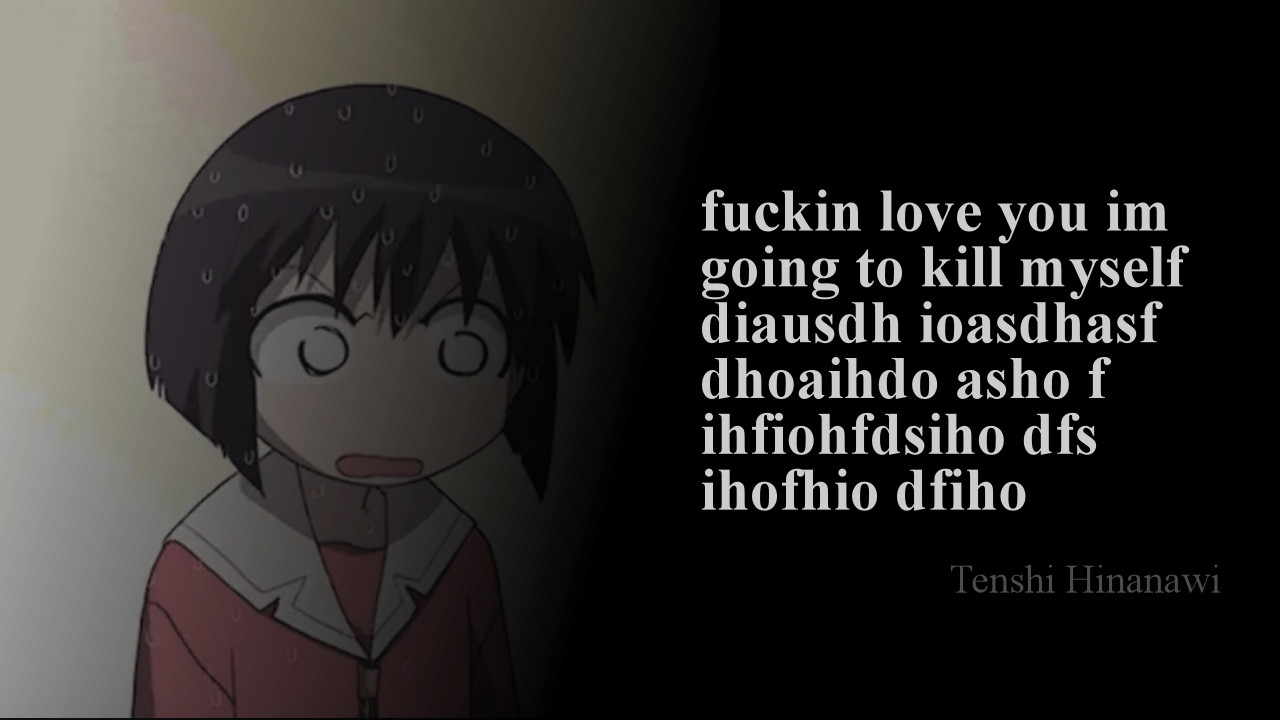
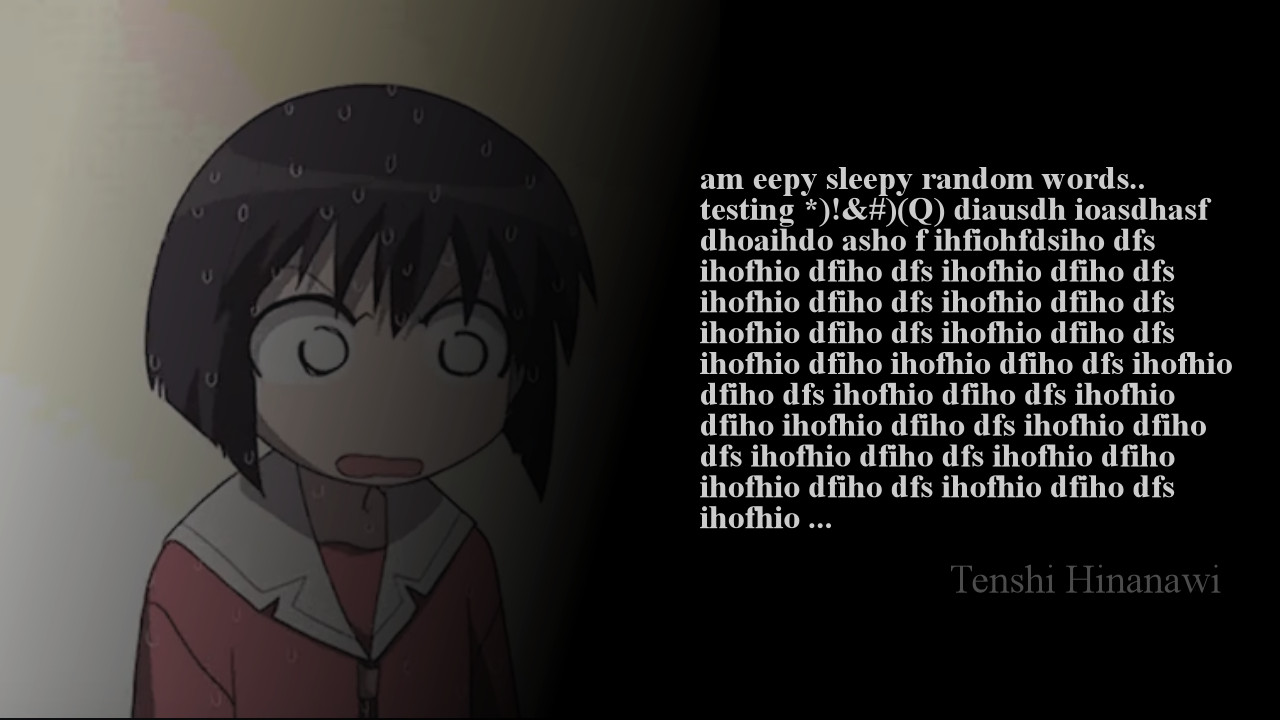
fix: font resize

Changed region(s): [[0.5312, 0.2139, 0.9688, 0.7333]]

diff --git a/index.ts b/index.ts
@@ -47,8 +47,8 @@ app.post("/quote", async (req, res) => {
 		: await canvas.loadImage(Buffer.from(await getImage(avatar_url)));
 
 	// 100 max
-	const lower_limit = 10;
-	const highest_limit = 70;
+	const lower_limit = 25;
+	const highest_limit = 50;
 	const text_length_limit = limit_number(text_field.length / 3, lower_limit, highest_limit);
 	const text_normalized = normalize(text_length_limit, lower_limit, highest_limit);
 	const text_non_normalized = invert_denormalize(text_normalized, lower_limit, highest_limit);
